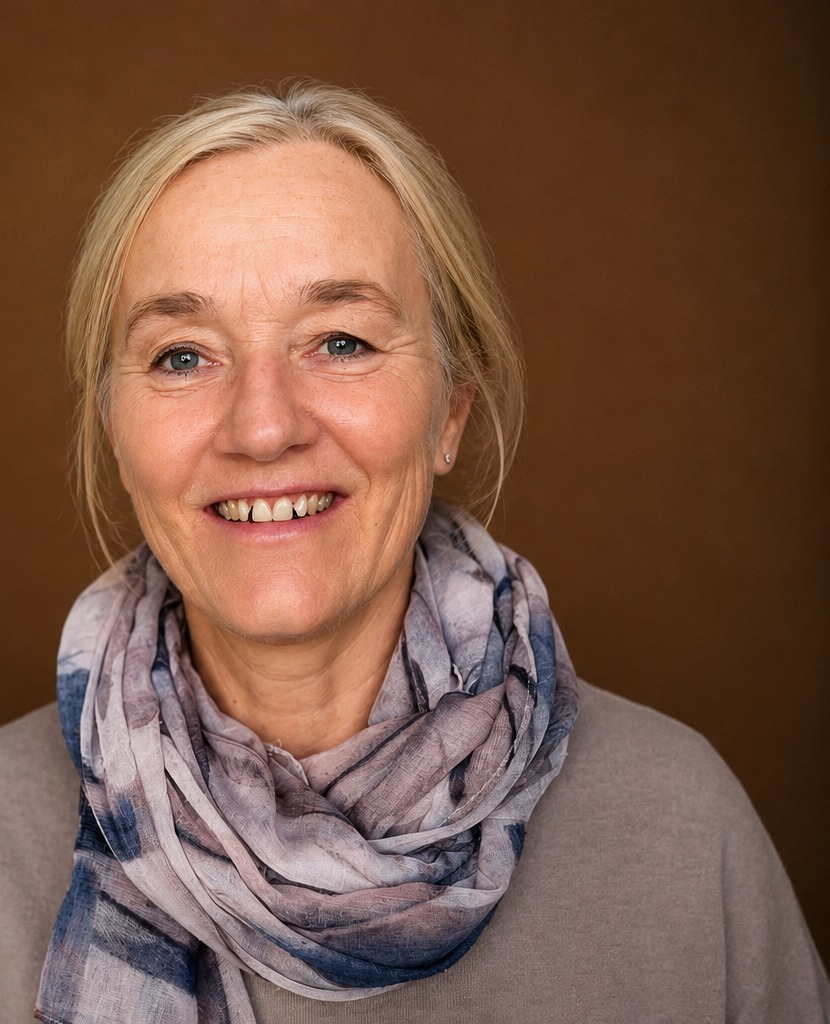
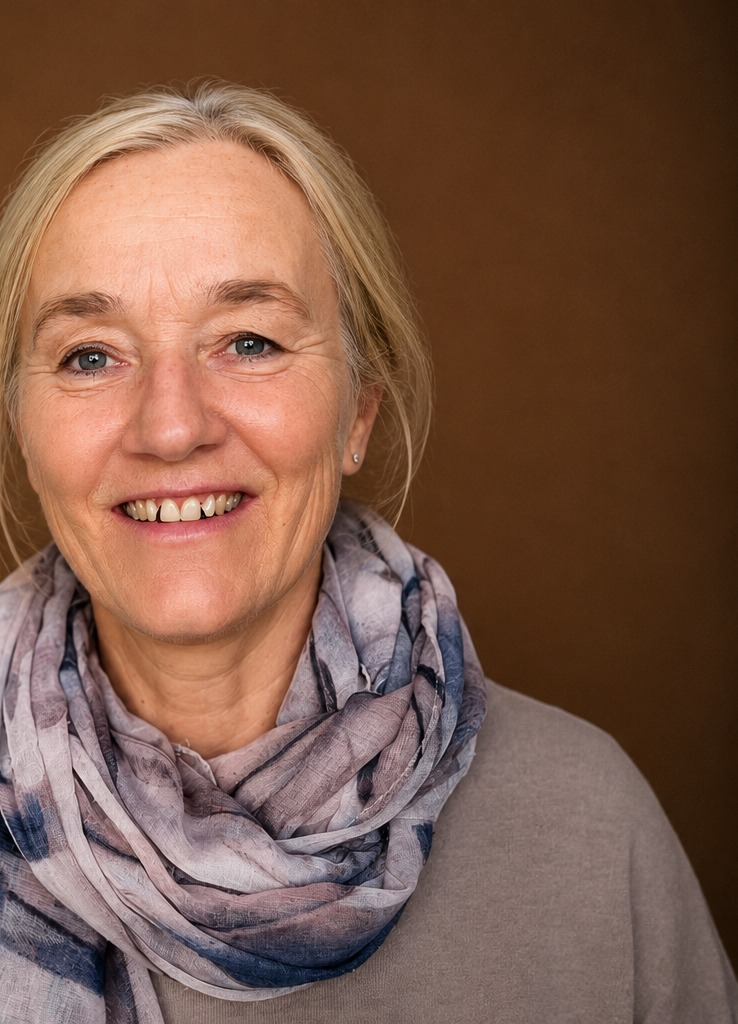
feat: neue Kollegiumsfotos eingebaut, Kontaktseite vereinfacht
Neue professionelle Fotos fuer Lehrkraefte ergaenzt/ersetzt (Zuordnung
ueber den auf den Fotos aufgedruckten Namen -> Nachname im Sheet) und
auf den Bildausschnitt der bestehenden Fotos zugeschnitten.

Kontaktformular entfernt zugunsten der reinen Kontaktkarten-Ansicht;
Code.gs: Datei-Matching-Schwelle fuer News-Bilder von der fuer
Downloads getrennt (verhindert falsche Bildtreffer auf der Startseite).

diff --git a/app/kontakt/KontaktView.tsx b/app/kontakt/KontaktView.tsx
@@ -4,46 +4,12 @@ import HeroBackground from "@/components/HeroBackground";
 
 import { motion } from "framer-motion";
 import Link from "next/link";
-import { useState } from "react";
-import { MapPin, Phone, Mail, Clock, Send, Instagram, FileText, Calendar, HeartPulse, ArrowRight, AlertTriangle, CheckCircle2 } from "lucide-react";
+import { MapPin, Phone, Mail, Clock, Instagram, FileText, Calendar, HeartPulse, ArrowRight, AlertTriangle } from "lucide-react";
 import { schoolInfo } from "@/lib/data";
 import { getEnrollmentInfo } from "@/lib/schoolYear";
 
 export default function KontaktPage() {
   const { isOpen: enrollmentOpen } = getEnrollmentInfo();
-  const [mailOpened, setMailOpened] = useState(false);
-
-  // Statischer Export hat keinen Server, der das Formular entgegennehmen
-  // koennte. Statt eines Drittanbieter-Formularservices (der als externer
-  // Auftragsverarbeiter in der Datenschutzerklaerung fehlt) oeffnet der
-  // Klick auf "Absenden" einen vorausgefuellten Mail-Entwurf im E-Mail-
-  // Programm des Besuchers, adressiert an schoolInfo.email. Der eigentliche
-  // Versand passiert erst, wenn der Besucher dort selbst auf "Senden" klickt.
-  function handleSubmit(e: React.FormEvent<HTMLFormElement>) {
-    e.preventDefault();
-    const form = new FormData(e.currentTarget);
-    const vorname = form.get("vorname");
-    const nachname = form.get("nachname");
-    const email = form.get("email");
-    const betreff = form.get("betreff");
-    const nachricht = form.get("nachricht");
-
-    const subject = `Kontaktformular: ${betreff} – ${vorname} ${nachname}`;
-    const body = [
-      `Name: ${vorname} ${nachname}`,
-      `E-Mail: ${email}`,
-      `Betreff: ${betreff}`,
-      "",
-      "Nachricht:",
-      nachricht,
-      "",
-      "— Gesendet über das Kontaktformular auf rs-heimbach.de",
-    ].join("\n");
-
-    window.location.href = `mailto:${schoolInfo.email}?subject=${encodeURIComponent(subject)}&body=${encodeURIComponent(body)}`;
-    setMailOpened(true);
-    e.currentTarget.reset();
-  }
 
   return (
     <>
@@ -117,122 +83,34 @@ export default function KontaktPage() {
       {/* Contact grid */}
       <section className="py-24 bg-[#f8f9ff]">
         <div className="max-w-7xl mx-auto px-4 sm:px-6 lg:px-8">
-          <div className="grid grid-cols-1 lg:grid-cols-3 gap-8">
-            {/* Contact info */}
-            <div className="lg:col-span-1 space-y-6">
-              {[
-                { icon: MapPin, label: "Adresse", value: `${schoolInfo.address}\n${schoolInfo.city}`, color: "from-blue-500 to-blue-700" },
-                { icon: Phone, label: "Telefon", value: schoolInfo.phone, color: "from-emerald-500 to-emerald-700" },
-                { icon: Mail, label: "E-Mail", value: schoolInfo.email, color: "from-rose-500 to-rose-700" },
-                { icon: Clock, label: "Sekretariat", value: "Mo 07:30–13:30 Uhr\nDi & Fr 07:30–13:00 Uhr\nMi & Do 07:30–15:45 Uhr", color: "from-amber-500 to-amber-700" },
-                { icon: Instagram, label: "Instagram", value: `@${schoolInfo.instagram}`, color: "from-purple-500 to-pink-600" },
-              ].map((item, i) => {
-                const Icon = item.icon;
-                return (
-                  <motion.div
-                    key={item.label}
-                    initial={{ opacity: 0, x: -20 }}
-                    whileInView={{ opacity: 1, x: 0 }}
-                    viewport={{ once: true }}
-                    transition={{ delay: i * 0.08 }}
-                    className="bg-white rounded-2xl p-5 flex items-start gap-4 shadow-sm hover:shadow-md transition-shadow"
-                  >
-                    <div className={`w-11 h-11 rounded-xl bg-gradient-to-br ${item.color} flex items-center justify-center shrink-0 shadow-md`}>
-                      <Icon className="w-5 h-5 text-white" />
-                    </div>
-                    <div>
-                      <div className="text-xs font-bold uppercase tracking-wide text-slate-400 mb-1">{item.label}</div>
-                      <div className="text-slate-800 font-semibold text-sm whitespace-pre-line">{item.value}</div>
-                    </div>
-                  </motion.div>
-                );
-              })}
-            </div>
-
-            {/* Contact form */}
-            <motion.div
-              initial={{ opacity: 0, x: 30 }}
-              whileInView={{ opacity: 1, x: 0 }}
-              viewport={{ once: true }}
-              transition={{ duration: 0.7 }}
-              className="lg:col-span-2 bg-white rounded-3xl p-8 md:p-10 shadow-sm"
-            >
-              <h2 className="text-2xl font-black text-[#1a3a6b] mb-7">Nachricht senden</h2>
-              <form className="space-y-5" onSubmit={handleSubmit}>
-                <div className="grid grid-cols-1 sm:grid-cols-2 gap-5">
-                  <div>
-                    <label className="block text-sm font-semibold text-slate-700 mb-1.5">Vorname *</label>
-                    <input
-                      type="text"
-                      name="vorname"
-                      required
-                      className="w-full px-4 py-3 border border-slate-200 rounded-xl text-sm focus:outline-none focus:border-[#1a3a6b] focus:ring-2 focus:ring-[#1a3a6b]/10 transition-all"
-                      placeholder="Max"
-                    />
-                  </div>
-                  <div>
-                    <label className="block text-sm font-semibold text-slate-700 mb-1.5">Nachname *</label>
-                    <input
-                      type="text"
-                      name="nachname"
-                      required
-                      className="w-full px-4 py-3 border border-slate-200 rounded-xl text-sm focus:outline-none focus:border-[#1a3a6b] focus:ring-2 focus:ring-[#1a3a6b]/10 transition-all"
-                      placeholder="Mustermann"
-                    />
-                  </div>
-                </div>
-                <div>
-                  <label className="block text-sm font-semibold text-slate-700 mb-1.5">E-Mail-Adresse *</label>
-                  <input
-                    type="email"
-                    name="email"
-                    required
-                    className="w-full px-4 py-3 border border-slate-200 rounded-xl text-sm focus:outline-none focus:border-[#1a3a6b] focus:ring-2 focus:ring-[#1a3a6b]/10 transition-all"
-                    placeholder="max.mustermann@email.de"
-                  />
-                </div>
-                <div>
-                  <label className="block text-sm font-semibold text-slate-700 mb-1.5">Betreff *</label>
-                  <select name="betreff" className="w-full px-4 py-3 border border-slate-200 rounded-xl text-sm focus:outline-none focus:border-[#1a3a6b] focus:ring-2 focus:ring-[#1a3a6b]/10 transition-all bg-white">
-                    <option>Allgemeine Anfrage</option>
-                    <option>Anmeldung / Schulwechsel</option>
-                    <option>Elterngespräch</option>
-                    <option>Technische Frage</option>
-                    <option>Sonstiges</option>
-                  </select>
-                </div>
-                <div>
-                  <label className="block text-sm font-semibold text-slate-700 mb-1.5">Nachricht *</label>
-                  <textarea
-                    name="nachricht"
-                    required
-                    rows={5}
-                    className="w-full px-4 py-3 border border-slate-200 rounded-xl text-sm focus:outline-none focus:border-[#1a3a6b] focus:ring-2 focus:ring-[#1a3a6b]/10 transition-all resize-none"
-                    placeholder="Ihre Nachricht an uns..."
-                  />
-                </div>
-                <div className="flex items-start gap-3">
-                  <input type="checkbox" id="datenschutz" className="mt-0.5 rounded" required />
-                  <label htmlFor="datenschutz" className="text-sm text-slate-600">
-                    Ich stimme der Verarbeitung meiner Daten gemäß der{" "}
-                    <a href="/datenschutz" className="text-[#1a3a6b] font-semibold hover:underline">Datenschutzerklärung</a> zu.
-                  </label>
-                </div>
-                <button
-                  type="submit"
-                  className="w-full flex items-center justify-center gap-2 gradient-hero text-white py-4 rounded-2xl font-bold text-sm hover:opacity-90 transition-opacity hover:shadow-xl"
+          <div className="grid grid-cols-1 sm:grid-cols-2 lg:grid-cols-3 gap-6">
+            {[
+              { icon: MapPin, label: "Adresse", value: `${schoolInfo.address}\n${schoolInfo.city}`, color: "from-blue-500 to-blue-700" },
+              { icon: Phone, label: "Telefon", value: schoolInfo.phone, color: "from-emerald-500 to-emerald-700" },
+              { icon: Mail, label: "E-Mail", value: schoolInfo.email, color: "from-rose-500 to-rose-700" },
+              { icon: Clock, label: "Sekretariat", value: "Mo 07:30–13:30 Uhr\nDi & Fr 07:30–13:00 Uhr\nMi & Do 07:30–15:45 Uhr", color: "from-amber-500 to-amber-700" },
+              { icon: Instagram, label: "Instagram", value: `@${schoolInfo.instagram}`, color: "from-purple-500 to-pink-600" },
+            ].map((item, i) => {
+              const Icon = item.icon;
+              return (
+                <motion.div
+                  key={item.label}
+                  initial={{ opacity: 0, y: 20 }}
+                  whileInView={{ opacity: 1, y: 0 }}
+                  viewport={{ once: true }}
+                  transition={{ delay: i * 0.08 }}
+                  className="bg-white rounded-2xl p-5 flex items-start gap-4 shadow-sm hover:shadow-md transition-shadow"
                 >
-                  <Send className="w-4 h-4" />
-                  Nachricht absenden
-                </button>
-                {mailOpened && (
-                  <p className="flex items-center gap-2 text-sm text-emerald-700 bg-emerald-50 rounded-xl px-4 py-3">
-                    <CheckCircle2 className="w-4 h-4 shrink-0" />
-                    Ihr E-Mail-Programm hat sich mit einem vorausgefüllten Entwurf geöffnet. Bitte dort noch auf „Senden" klicken.
-                  </p>
-                )}
-              </form>
-            </motion.div>
+                  <div className={`w-11 h-11 rounded-xl bg-gradient-to-br ${item.color} flex items-center justify-center shrink-0 shadow-md`}>
+                    <Icon className="w-5 h-5 text-white" />
+                  </div>
+                  <div>
+                    <div className="text-xs font-bold uppercase tracking-wide text-slate-400 mb-1">{item.label}</div>
+                    <div className="text-slate-800 font-semibold text-sm whitespace-pre-line">{item.value}</div>
+                  </div>
+                </motion.div>
+              );
+            })}
           </div>
         </div>
       </section>
